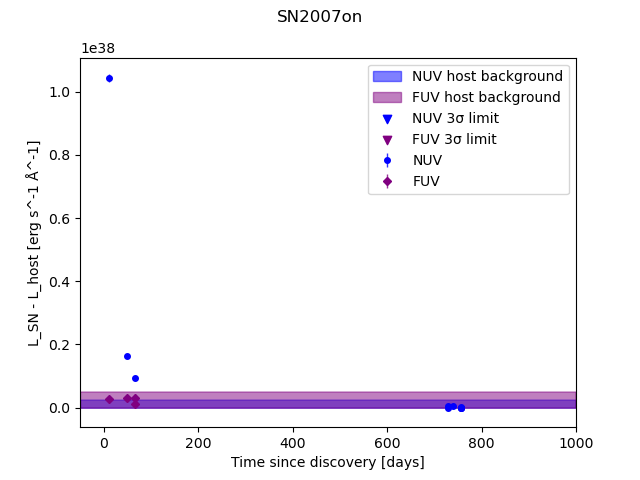
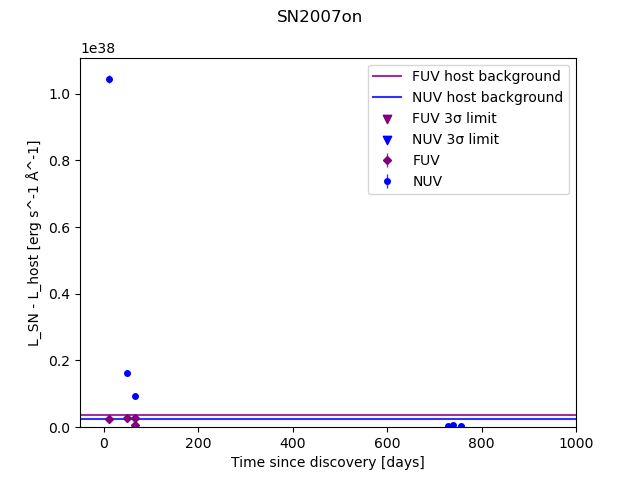
simplified plot_lc

diff --git a/plot_lc.py b/plot_lc.py
@@ -11,6 +11,7 @@ from tqdm import tqdm
 
 LC_DIR = Path('/mnt/d/GALEXdata_v6/LCs/')
 FITS_DIR = Path('/mnt/d/GALEXdata_v6/fits/')
+DETRAD_CUT = 0.55 # deg
 
 
 def main():
@@ -20,19 +21,71 @@ def main():
     osc = pd.read_csv('ref/OSC-pre2014-v2-clean.csv', index_col='Name')
     ned = pd.read_csv('out/scraped_table.csv', index_col='name')
 
-    flag_counts = count_flags(fits_info)
+    flagged_points = []    
+    total_points = 0
 
-    # flags = []
-    # sys_err = pd.DataFrame([], columns=['NUV Background', 'NUV Systematic Error', 'FUV Background', 'FUV Systematic Error'], 
-    #         index=pd.Series(sne, name='Name'))
+    bg_list = []
+    bg_loc = []
 
-    # for sn in tqdm(sn_info.index[0:1]):
-    #     disc_date = Time(osc.loc[sn, 'Disc. Date'], format='iso')
+    for sn in tqdm(sn_info.index[0:1]):
+        sn = 'SN2007on'
 
-    #     nuv_lc = get_lc_data(sn, 'NUV', disc_date, ned)
-    #     fuv_lc = get_lc_data(sn, 'FUV', disc_date, ned)
+        # Initialize plot
+        fig, ax = plt.subplots()
+        xlim = (-50, 1000)
+        disc_date = Time(sn_info.loc[sn, 'Disc. Date'], format='iso')
 
-    #     nuv_bg = nuv_bg_err = fuv_bg = fuv_bg_err = None
+        bands = ['FUV', 'NUV']
+        colors = ['purple', 'blue']
+        marker_styles = ['D', 'o']
+
+        # Show FUV and NUV data on same plot
+        for band, color, marker in zip(bands, colors, marker_styles):
+            # Import light curve file, if it exists
+            try:
+                lc = get_lc_data(sn, band, sn_info, ned)
+            except FileNotFoundError:
+                continue
+
+            # Get host background levels & errors
+            bg, bg_err, sys_err = get_background(lc)
+            bg_list.append([bg, bg_err, sys_err])
+            bg_loc.append((sn, band))
+
+            # Add systematic error in quadrature with statistical
+            lc['luminosity_err'] = np.sqrt(lc['luminosity_err'] ** 2 + sys_err ** 2)
+
+            # Background average of epochs before before
+            ax.axhline(y=bg_err, alpha=0.8, color=color, label=band+' host background')
+
+            # Convert negative luminosities into upper limits
+            lc_lims = lc[lc['luminosity'] < 0]
+            ax.scatter(lc_lims['t_delta'], 3 * lc_lims['luminosity_err'] - bg, 
+                    marker='v', color=color, label=band+' 3σ limit')
+
+            # Plot luminosities
+            lc_data = lc[lc['luminosity'] > 0]
+            markers, caps, bars = ax.errorbar(lc_data['t_delta'], lc_data['luminosity'] - bg, 
+                    yerr=lc_data['luminosity_err'], linestyle='none', marker=marker, ms=4,
+                    elinewidth=1, c=color, label=band
+            )
+            [bar.set_alpha(0.8) for bar in bars]
+
+        # Configure plot
+        ax.set_xlabel('Time since discovery [days]')
+        ax.set_xlim(xlim)
+        ax.set_ylabel('L_SN - L_host [erg s^-1 Å^-1]')
+        ax.set_ylim(0, None)
+        plt.legend()
+        fig.suptitle(sn)
+        plt.savefig(Path('lc_plots/' + sn.replace(':','_') + '.png'))
+        plt.show()
+
+    # Output DataFrame of background, bg error, and sys error
+    bg_midx = pd.MultiIndex.from_tuples(bg_loc, names=['Name', 'Band'])
+    bg_df = pd.DataFrame(bg_list, columns=['Background', 'Background Error', 
+            'Systematic Error'], index=bg_midx)
+    utils.output_csv(bg_df, 'out/lc_backgrounds.csv')
 
     #     if len(nuv_lc) > 0:
     #         nuv_bg, nuv_bg_err, nuv_sys_err = get_background(nuv_lc, disc_date)
@@ -47,19 +100,17 @@ def main():
     #         fuv_lc['luminosity_err'] = np.sqrt(fuv_lc['luminosity_err'] ** 2 + fuv_sys_err ** 2)
     #         flags.append(fuv_lc[fuv_lc['luminosity'] > fuv_bg + fuv_bg_err])
 
-    #     plot_lc(nuv_lc, fuv_lc, sn, disc_date, nuv_bg, nuv_bg_err, fuv_bg, fuv_bg_err)
-
     # flags = pd.concat(flags)
     # flags.to_csv('out/notable.csv')
     # sys_err.to_csv('out/sys_err.csv')
 
 
-def count_flags(fits_info):
+def count_flags(lc):
     """
-    Counts the number of points labeled with each flag for all light curves.
+    Counts the number of points labeled with each flag in a particular light curve
     Also, fix lc files with duplicated information
     Input:
-        fits_info (DataFrame): info about all before+after FITS files
+        lc (DataFrame): light curve table
     Output:
         flag_counts (Series): number of data points by flag label
     """
@@ -67,31 +118,10 @@ def count_flags(fits_info):
     flags = [int(2 ** n) for n in range(0,10)]
     lc_files = str(LC_DIR) + '/' + fits_info['File'].str.split('.', expand=True)[0] + '.csv'
     lc_files = lc_files.apply(Path)
-    flagged_points = []
     low_exptime = []
-    total_points = 0
 
     print('Reading light curve files...')
     for lc_file in tqdm(lc_files):
-        # Read light curve file, unless it doesn't exist yet
-        try:
-            lc = pd.read_csv(lc_file)
-        except FileNotFoundError:
-            flagged_points.append(np.full(10, np.nan))
-            continue
-
-        # Find duplicated headers, if any, and remove all duplicated material
-        # then fix original file
-        dup_header = lc[lc['t0'] == 't0']
-        if len(dup_header) > 0:
-            lc = lc.iloc[0:dup_header.index[0]]
-            lc.to_csv(lc_file, index=False)
-
-        # Cut sources outside detector radius
-        plate_scale = 6 # as/pixel
-        detrad_cut = 0.55 # deg
-        detrad_cut_px = detrad_cut * 3600 / plate_scale
-        lc = lc[lc['detrad'] < detrad_cut_px]
 
         # Count points with only flag 4
         low_exptime += lc[lc['flags'] == 4]['exptime'].tolist()
@@ -99,7 +129,6 @@ def count_flags(fits_info):
         # Count total data points
         total_points += len(lc)
         # Count number of data points with each flag
-        lc['flags'] = lc['flags'].astype(float).astype(int)
         flag_count = [len(lc[lc['flags'] & f > 0]) for f in flags]
         flagged_points.append(flag_count)
 
@@ -115,7 +144,7 @@ def count_flags(fits_info):
     return flagged_points.sum(0)
 
 
-def get_background(lc, disc_date):
+def get_background(lc):
 
     before = lc[lc['t_delta'] < -50]
     data = np.array(before['luminosity'])
@@ -143,87 +172,54 @@ def get_background(lc, disc_date):
     return bg, bg_err, sys_err
 
 
-def get_lc_data(sn, band, disc_date, ned):
+def get_lc_data(sn, band, sn_info, ned):
+    """
+    Imports light curve file for specified SN and band. Cuts points with bad
+    flags or sources outside detector radius, and also fixes duplicated headers.
+    Inputs:
+        sn (str): SN name
+        band (str): 'FUV' or 'NUV'
+        sn_info (DataFrame)
+        ned (DataFrame)
+    Output:
+        lc (DataFrame): light curve table
+    """
 
     # Get name of light curve file
     fits_name = utils.sn2fits(sn, band)
     lc_file = LC_DIR / Path(fits_name.split('.')[0] + '.csv')
+    # Discovery date
+    disc_date = Time(sn_info.loc[sn, 'Disc. Date'], format='iso')
 
     # Read light curve data
-    try:
-        lc = pd.read_csv(lc_file, dtype={'flags':int})
+    lc = pd.read_csv(lc_file)
 
-        # Weed out bad flags
-        bad_flags = (1 | 2 | 16 | 64 | 128 | 512)
-        lc = lc[lc['flags'] & bad_flags == 0]
+    # Find duplicated headers, if any, and remove all duplicated material
+    # then fix original file
+    dup_header = lc[lc['t0'] == 't0']
+    if len(dup_header) > 0:
+        lc = lc.iloc[0:dup_header.index[0]]
+        lc.to_csv(lc_file, index=False)
+    lc = lc.astype(float)
+    lc['flags'] = lc['flags'].astype(int)
 
-        # Convert dates to MJD
-        lc['t_mean_mjd'] = Time(lc['t_mean'], format='gps').mjd
-        lc['t_delta'] = lc['t_mean_mjd'] - disc_date.mjd
-        # Convert measured fluxes to absolute luminosities
-        lc['luminosity'] = absolute_luminosity(sn, lc['flux_bgsub'], ned)
-        lc['luminosity_err'] = absolute_luminosity(sn, lc['flux_bgsub_err'], ned)
+    # Weed out bad flags
+    bad_flags = (1 | 2 | 16 | 64 | 128 | 512)
+    lc = lc[lc['flags'] & bad_flags == 0]
 
-        return lc
-    except FileNotFoundError:
-        return []
+    # Cut sources outside detector radius
+    plate_scale = 6 # as/pixel
+    detrad_cut_px = DETRAD_CUT * 3600 / plate_scale
+    lc = lc[lc['detrad'] < detrad_cut_px]
 
+    # Convert dates to MJD
+    lc['t_mean_mjd'] = Time(lc['t_mean'], format='gps').mjd
+    lc['t_delta'] = lc['t_mean_mjd'] - disc_date.mjd
+    # Convert measured fluxes to absolute luminosities
+    lc['luminosity'] = absolute_luminosity(sn, lc['flux_bgsub'], ned)
+    lc['luminosity_err'] = absolute_luminosity(sn, lc['flux_bgsub_err'], ned)
 
-def plot_lc(nuv_lc, fuv_lc, sn, disc_date, nuv_bg=None, nuv_bg_err=None, fuv_bg=None, fuv_bg_err=None):
-
-    fig, ax = plt.subplots()
-
-    xlim = (-50, 1000)
-
-    # Background median of epochs before or long after discovery
-    # ax.hlines(bg, xlim[0], xlim[1], colors=['grey'], label='Background median')
-    if nuv_bg:
-        ax.fill_between(np.arange(xlim[0], xlim[1]), 0, nuv_bg_err, 
-                alpha=0.5, color='blue', label='NUV host background')
-    if fuv_bg:
-        ax.fill_between(np.arange(xlim[0], xlim[1]), 0, fuv_bg_err, 
-                alpha=0.5, color='purple', label='FUV host background')
-    # ax.fill_between(lc['t_mean_mjd'], med - 2 * med_err, med + 2 * med_err, 
-    #         alpha=0.2, color='grey', label='Background 2σ')
-
-    # Convert negative luminosities into upper limits
-    if len(nuv_lc) > 0:
-        nuv_lims = nuv_lc[nuv_lc['luminosity'] < 0]
-        nuv_lc = nuv_lc[nuv_lc['luminosity'] > 0]
-        # NUV fluxes
-        markers, caps, bars = ax.errorbar(nuv_lc['t_delta'], nuv_lc['luminosity'] - nuv_bg, 
-                yerr=nuv_lc['luminosity_err'], linestyle='none', marker='o', ms=4,
-                elinewidth=1, c='blue', label='NUV'
-        )
-        [bar.set_alpha(0.8) for bar in bars]
-        # NUV upper limits
-        ax.scatter(nuv_lims['t_delta'], 3 * nuv_lims['luminosity_err'] - nuv_bg, 
-                marker='v', color='blue', label='NUV 3σ limit')
-
-    # Convert negative luminosities into upper limits
-    if len(fuv_lc) > 0:
-        fuv_lims = fuv_lc[fuv_lc['luminosity'] < 0]
-        fuv_lc = fuv_lc[fuv_lc['luminosity'] > 0]
-        # FUV fluxes
-        markers, caps, bars = ax.errorbar(fuv_lc['t_delta'], fuv_lc['luminosity'] - fuv_bg, 
-                yerr=fuv_lc['luminosity_err'], linestyle='none', marker='D', ms=4,
-                elinewidth=1, c='purple', label='FUV'
-        )
-        [bar.set_alpha(0.8) for bar in bars]
-        # FUV upper limits
-        ax.scatter(fuv_lims['t_delta'], 3 * fuv_lims['luminosity_err'] - fuv_bg, 
-                marker='v', color='purple', label='FUV 3σ limit')
-
-    # Configure plot
-    # plt.gca().invert_yaxis()
-    ax.set_xlabel('Time since discovery [days]')
-    ax.set_xlim(xlim)
-    ax.set_ylabel('L_SN - L_host [erg s^-1 Å^-1]')
-    plt.legend()
-    fig.suptitle(sn)
-    # plt.show()
-    plt.savefig('lc_plots/' + sn + '.png')
-    plt.close()
+    return lc
 
 
 def absolute_mag(sn, mags, ned):
